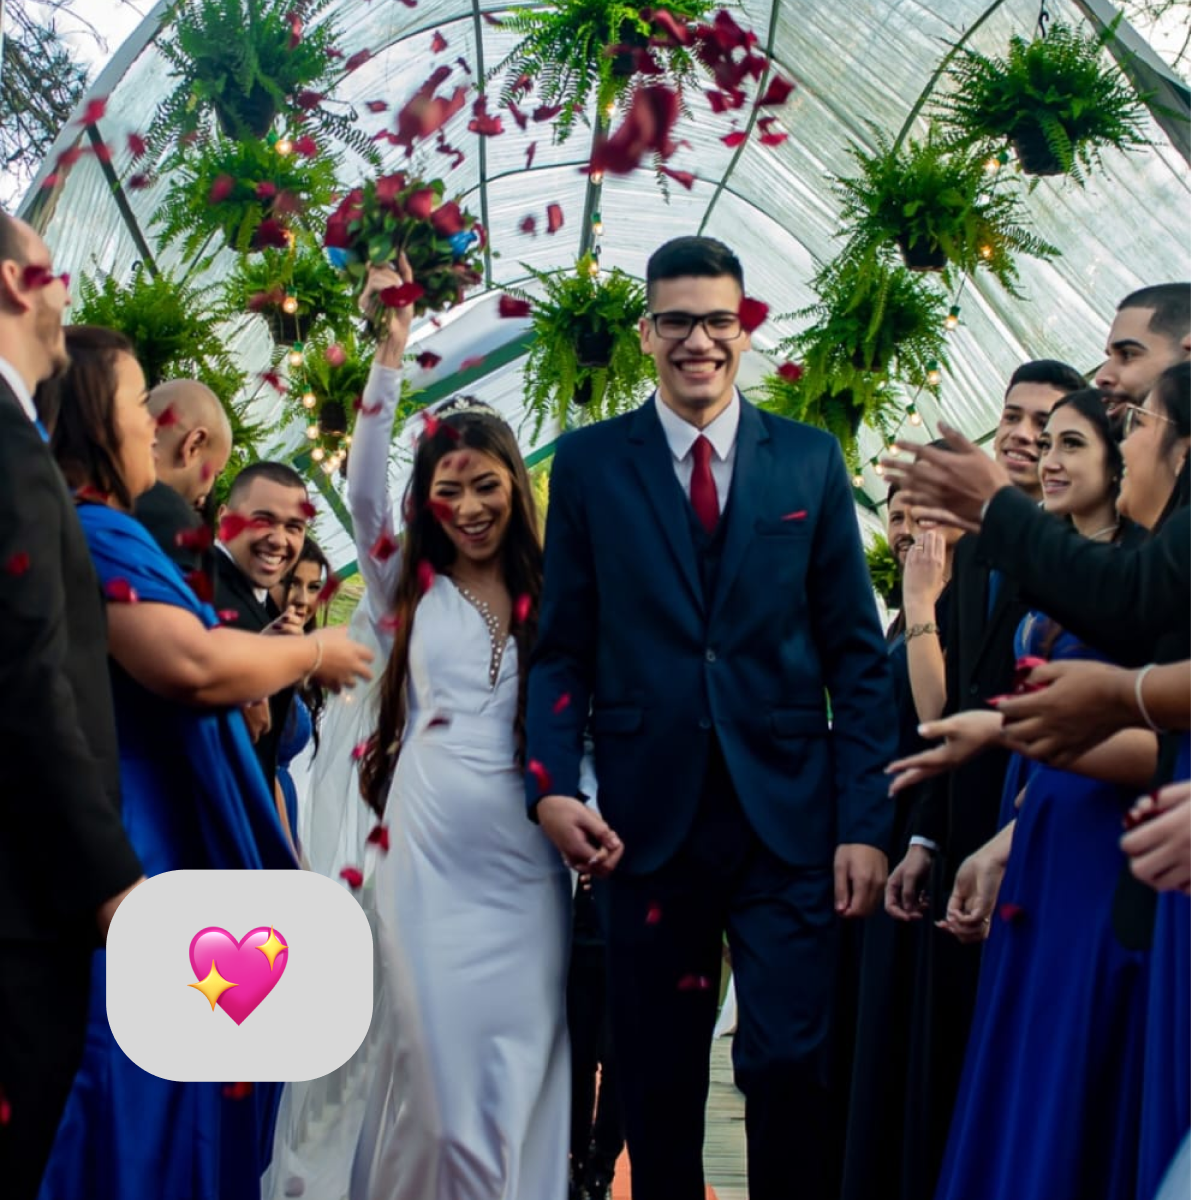
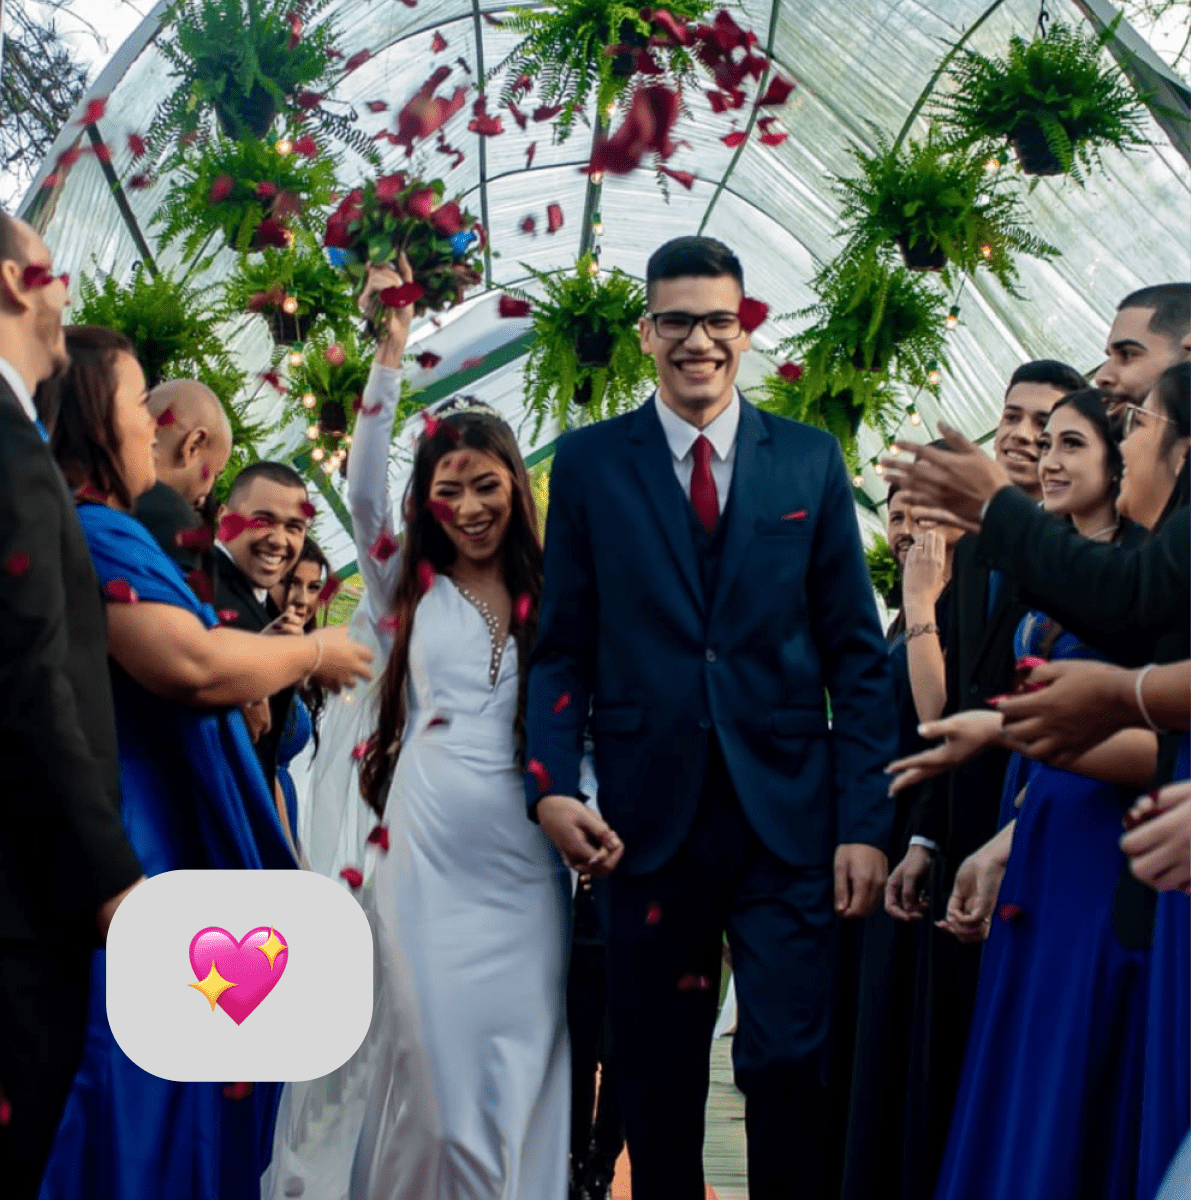
refactor: add compressed images

diff --git a/src/components/MePicture.tsx b/src/components/MePicture.tsx
@@ -1,11 +1,18 @@
 import Image from 'next/image';
 
-import mePicture from '../assets/mePicture.jpg';
+import mePicture from '../assets/mePicture.webp';
 
 export function MePicture() {
   return (
     <div className="relative h-[120px] w-[120px] lg:h-[184px] lg:w-[184px]">
-      <Image src={mePicture} sizes={`120px`} alt="Avatar" fill priority className="rounded-3xl object-contain" />
+      <Image
+        src={mePicture}
+        sizes={`120px`}
+        alt="Avatar"
+        fill
+        priority
+        className="rounded-3xl object-contain"
+      />
     </div>
   );
 }

diff --git a/src/app/[locale]/page.tsx b/src/app/[locale]/page.tsx
@@ -1,7 +1,7 @@
 import Image from 'next/image';
 import { useTranslations } from 'next-intl';
 
-import eua2025 from '@/assets/about/eua2025.png';
+import eua2025 from '@/assets/about/eua2025.webp';
 import love from '@/assets/about/love.png';
 import rome from '@/assets/about/rome.png';
 import { DownloadResumeButton } from '@/components/DownloadResumeButton';
